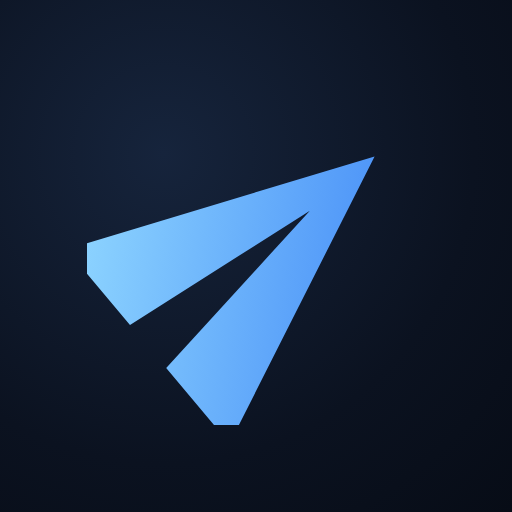
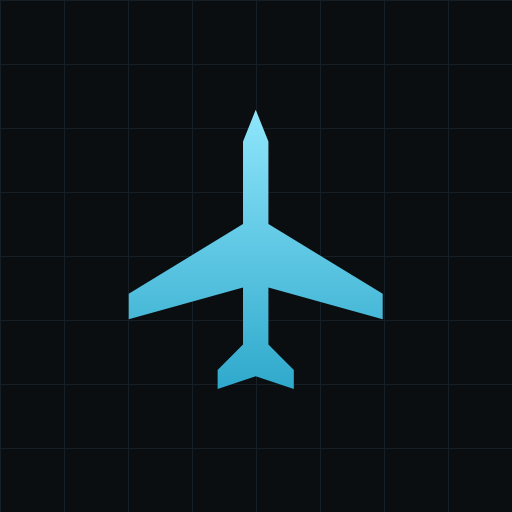
Rediseñar la interfaz con estética de instrumento de cabina
La paleta anterior era azul marino muy oscuro (#0b1220, #111c2e). No había
morado literal, pero en pantalla OLED ese azul profundo tira a violeta.
Se reemplaza por grafito neutro (#0a0e11) sin tinte de color, con cian
para lo interactivo y verde solo para la distancia.

Se quita todo el redondeado: tarjetas, botones, popups y controles de
Leaflet quedan con border-radius 0. El marcador de posición propia pasa de
círculo a rombo — el símbolo de "propia nave" de las pantallas tácticas.

Íconos con tema de aviación: se reemplaza el avión de papel (que leía más
como ícono de "enviar") por una silueta de avión en vista superior, la
misma en el encabezado, en los marcadores del mapa (rotada según el rumbo
real) y en los PNG de la app, para tener una sola identidad visual. El
fondo del ícono pasa de degradado radial (que se veía circular) a grafito
plano con rejilla cuadrada tipo pantalla de navegación.

La lista ahora se lee como un readout de instrumento: tipografía monoespaciada
con cifras tabulares (los números no bailan al actualizarse), etiquetas
ALT/VEL/RUMBO en versalitas, y un filo cian a la izquierda de cada tarjeta.
También se estilizan los popups y controles de Leaflet, que venían claros y
redondeados por defecto.

Se sube la versión de caché del service worker para purgar la anterior.
Las 37 pruebas (18 de lógica + 19 end-to-end) siguen pasando.

Claude-Session: https://claude.ai/code/session_01NAnjnxPRujyqcFmnx795uv

diff --git a/index.html b/index.html
@@ -5,38 +5,130 @@
 <meta name="viewport" content="width=device-width, initial-scale=1.0, maximum-scale=1.0, user-scalable=no">
 <title>Vuelos Cercanos</title>
 <link rel="manifest" href="manifest.json">
-<meta name="theme-color" content="#0b1220">
-<meta name="description" content="Rastreador de vuelos cercanos usando geolocalización y datos en vivo de OpenSky Network.">
+<meta name="theme-color" content="#0a0e11">
+<meta name="description" content="Rastreador de vuelos cercanos usando geolocalización y datos ADS-B en vivo.">
 <link rel="apple-touch-icon" href="icon-192.png">
 <link rel="icon" href="icon-192.png">
 <link rel="stylesheet" href="https://cdnjs.cloudflare.com/ajax/libs/leaflet/1.9.4/leaflet.min.css"/>
 <style>
+  /* Paleta de instrumento de cabina: grafito neutro (sin tinte azul-violeta),
+     cian para lo interactivo, verde solo para la distancia. Todo angular:
+     sin esquinas redondeadas en ningún elemento. */
+  :root {
+    --bg:#0a0e11; --panel:#10161a; --panel-hi:#131b21; --line:#232d34;
+    --text:#e6ecf0; --muted:#8496a0; --dim:#5d6e78;
+    --accent:#35c5e8; --ok:#64d98a;
+    --mono: ui-monospace, SFMono-Regular, Menlo, Consolas, monospace;
+  }
   * { box-sizing: border-box; margin: 0; padding: 0; }
-  body { font-family: -apple-system, system-ui, sans-serif; background:#0b1220; color:#e6edf3; }
-  #map { height: 45vh; width: 100%; }
-  header { padding: 12px 16px; background:#101a2b; display:flex; justify-content:space-between; align-items:center; border-bottom:1px solid #1e2a3f;}
-  header h1 { font-size: 16px; font-weight:600; }
-  #status { font-size: 12px; color:#8ea3bd; }
-  #refreshBtn { background:#1e3a5f; color:#e6edf3; border:none; padding:8px 12px; border-radius:8px; font-size:13px; }
-  #locationHelp { display:none; padding: 16px; text-align:center; }
-  #locationHelp p { color:#8ea3bd; font-size:13.5px; margin-bottom:12px; line-height:1.5; }
-  #retryLocationBtn { background:#1e3a5f; color:#e6edf3; border:none; padding:10px 18px; border-radius:8px; font-size:14px; }
-  #list { padding: 8px 12px 80px; overflow-y:auto; }
-  .flight-card { background:#111c2e; border:1px solid #1e2a3f; border-radius:10px; padding:12px; margin-bottom:8px; }
-  .flight-card .top { display:flex; justify-content:space-between; align-items:baseline; }
-  .flight-card .callsign { font-weight:700; font-size:15px; }
-  .flight-card .dist { color:#6fd38a; font-weight:600; font-size:14px; }
-  .flight-card .details { color:#8ea3bd; font-size:12.5px; margin-top:4px; display:flex; gap:12px; flex-wrap:wrap;}
-  .empty { text-align:center; color:#6b7f99; padding: 24px; font-size:14px; }
-  .empty .diag { display:block; margin-top:10px; color:#55697f; font-size:11.5px; line-height:1.6; }
-  .plane-icon { font-size: 18px; }
+  body {
+    font-family: -apple-system, system-ui, "Segoe UI", sans-serif;
+    background: var(--bg); color: var(--text);
+    -webkit-font-smoothing: antialiased;
+  }
+
+  header {
+    display:flex; justify-content:space-between; align-items:center; gap:12px;
+    padding: 13px 16px; background: var(--panel); border-bottom: 1px solid var(--line);
+  }
+  .brand { display:flex; align-items:center; gap:10px; min-width:0; }
+  .brand > svg { width:20px; height:20px; flex:none; color: var(--accent); }
+  h1 { font-size: 12.5px; font-weight:700; letter-spacing:.16em; text-transform:uppercase; }
+  #status {
+    font-family: var(--mono); font-size: 11px; color: var(--muted);
+    margin-top:4px; font-variant-numeric: tabular-nums;
+  }
+  #refreshBtn {
+    font-family: var(--mono); font-size:10.5px; letter-spacing:.12em; text-transform:uppercase;
+    background: transparent; color: var(--accent); border: 1px solid var(--accent);
+    border-radius: 0; padding: 9px 13px; flex:none; cursor:pointer;
+  }
+  #refreshBtn:active { background: var(--accent); color: var(--bg); }
+
+  #map { height: 42vh; width: 100%; background: var(--bg); border-bottom: 1px solid var(--line); }
+
+  #list { padding: 10px 12px 80px; }
+  .flight-card {
+    background: var(--panel); border: 1px solid var(--line); border-left: 3px solid var(--accent);
+    border-radius: 0; padding: 10px 12px; margin-bottom: 6px;
+  }
+  .flight-card .top { display:flex; justify-content:space-between; align-items:baseline; gap:10px; }
+  .flight-card .callsign {
+    font-family: var(--mono); font-weight:700; font-size:14px; letter-spacing:.05em;
+    overflow:hidden; text-overflow:ellipsis; white-space:nowrap;
+  }
+  .flight-card .callsign .mark { color: var(--accent); margin-right:7px; }
+  .flight-card .dist {
+    font-family: var(--mono); color: var(--ok); font-weight:600; font-size:13px;
+    font-variant-numeric: tabular-nums; flex:none;
+  }
+  .flight-card .details { display:flex; gap:16px; flex-wrap:wrap; margin-top:8px; }
+  .flight-card .k {
+    font-size:9px; letter-spacing:.14em; text-transform:uppercase; color: var(--dim); margin-right:6px;
+  }
+  .flight-card .v {
+    font-family: var(--mono); font-size:12px; color: var(--muted); font-variant-numeric: tabular-nums;
+  }
+
+  .empty { text-align:center; color: var(--dim); padding: 28px 16px; font-size:13px; line-height:1.6; }
+  .empty .diag {
+    display:block; margin-top:12px; padding-top:12px; border-top:1px solid var(--line);
+    font-family: var(--mono); color:#4d5c66; font-size:11px; line-height:1.7;
+  }
+
+  #locationHelp { display:none; padding: 28px 20px; text-align:center; }
+  #locationHelp p { color: var(--muted); font-size:13px; margin-bottom:16px; line-height:1.6; }
+  #retryLocationBtn {
+    font-family: var(--mono); font-size:11px; letter-spacing:.12em; text-transform:uppercase;
+    background: transparent; color: var(--accent); border:1px solid var(--accent);
+    border-radius:0; padding: 11px 20px; cursor:pointer;
+  }
+  #retryLocationBtn:active { background: var(--accent); color: var(--bg); }
+
+  /* Marcadores del mapa: mismo símbolo de avión que el encabezado y el ícono
+     de la app, rotado según el rumbo real de la aeronave. */
+  .plane-icon { color: var(--accent); line-height:0; }
+  .plane-icon svg {
+    width:22px; height:22px; display:block;
+    filter: drop-shadow(0 0 2px rgba(0,0,0,.95));
+  }
+  /* Posición propia: rombo, no círculo — símbolo de "propia nave" de las
+     pantallas tácticas, y encaja con el resto angular de la interfaz. */
+  .me-marker {
+    width:10px; height:10px; margin:2px;
+    border:2px solid var(--accent); background: rgba(53,197,232,.28);
+    transform: rotate(45deg);
+  }
+
+  /* Leaflet viene con fondos claros y esquinas redondeadas por defecto. */
+  .leaflet-container { background: var(--bg); font-family: inherit; }
+  .leaflet-popup-content-wrapper, .leaflet-popup-tip {
+    background: var(--panel-hi); color: var(--text);
+    border:1px solid var(--line); border-radius:0; box-shadow:none;
+  }
+  .leaflet-popup-content { font-family: var(--mono); font-size:12px; margin:9px 11px; line-height:1.5; }
+  .leaflet-popup-content b { color: var(--accent); letter-spacing:.05em; }
+  .leaflet-container a.leaflet-popup-close-button { color: var(--dim); }
+  .leaflet-control-zoom a {
+    background: var(--panel) !important; color: var(--text) !important;
+    border-color: var(--line) !important; border-radius:0 !important;
+  }
+  .leaflet-control-attribution {
+    background: rgba(10,14,17,.85) !important; color: var(--dim) !important; font-size:9px;
+  }
+  .leaflet-control-attribution a { color: var(--muted) !important; }
 </style>
 </head>
 <body>
 <header>
-  <div>
-    <h1>✈ Vuelos Cercanos</h1>
-    <div id="status">Obteniendo ubicación...</div>
+  <div class="brand">
+    <svg viewBox="0 0 100 100" fill="currentColor" aria-hidden="true">
+      <path d="M50 4 L54 14 L54 40 L90 62 L90 70 L54 60 L54 78 L62 86 L62 92 L50 88 L38 92 L38 86 L46 78 L46 60 L10 70 L10 62 L46 40 L46 14 Z"/>
+    </svg>
+    <div>
+      <h1>Vuelos Cercanos</h1>
+      <div id="status">Obteniendo ubicación...</div>
+    </div>
   </div>
   <button id="refreshBtn">Actualizar</button>
 </header>
@@ -49,11 +141,13 @@
 
 <script src="https://cdnjs.cloudflare.com/ajax/libs/leaflet/1.9.4/leaflet.min.js"></script>
 <script type="module">
-import { fetchNearbyFlights, renderFlightList, escapeHtml, fmtAltitude } from "./app-logic.js";
+import { fetchNearbyFlights, renderFlightList, escapeHtml, fmtAltitude, PLANE_PATH } from "./app-logic.js";
 
 // Leaflet se carga desde un CDN. Si la red lo bloquea o el CDN falla, la app
 // sigue sirviendo con la lista de vuelos en vez de romperse entera.
 const hasLeaflet = typeof L !== "undefined";
+
+const PLANE_SVG = `<svg viewBox="0 0 100 100" fill="currentColor"><path d="${PLANE_PATH}"/></svg>`;
 
 let map = null, planeMarkers = [];
 let userLat = null, userLon = null;
@@ -72,7 +166,8 @@ function initMap(lat, lon) {
   L.tileLayer("https://{s}.tile.openstreetmap.org/{z}/{x}/{y}.png", {
     attribution: "© OpenStreetMap contributors"
   }).addTo(map);
-  L.circleMarker([lat, lon], { radius: 7, color: "#3b82f6", fillColor: "#3b82f6", fillOpacity: 0.8 }).addTo(map);
+  const meIcon = L.divIcon({ html: '<div class="me-marker"></div>', className: "", iconSize: [14, 14] });
+  L.marker([lat, lon], { icon: meIcon, interactive: false, zIndexOffset: -100 }).addTo(map);
 }
 
 function renderMarkers(flights) {
@@ -83,8 +178,8 @@ function renderMarkers(flights) {
     // f.track ya fue normalizado a número en app-logic.js (parseAircraft),
     // así que es seguro interpolarlo en el atributo style.
     const icon = L.divIcon({
-      html: `<div class="plane-icon" style="transform: rotate(${f.track}deg)">✈</div>`,
-      className: "", iconSize: [24, 24]
+      html: `<div class="plane-icon" style="transform: rotate(${f.track}deg)">${PLANE_SVG}</div>`,
+      className: "", iconSize: [22, 22]
     });
     const marker = L.marker([f.lat, f.lon], { icon }).addTo(map)
       .bindPopup(`<b>${escapeHtml(f.callsign)}</b><br>${f.dist.toFixed(1)} km · ${fmtAltitude(f)}`);

diff --git a/app-logic.js b/app-logic.js
@@ -26,6 +26,12 @@ export const PROVIDERS = [
 export const DEFAULT_RADIUS_NM = 100; // ~185 km
 const FETCH_TIMEOUT_MS = 12000;
 
+// Silueta de avión en vista superior, con el morro hacia arriba (viewBox
+// 0 0 100 100). Es el mismo símbolo en el encabezado, en los marcadores del
+// mapa (rotado según el rumbo) y en los íconos de la app, para que la
+// identidad visual sea una sola.
+export const PLANE_PATH = "M50 4 L54 14 L54 40 L90 62 L90 70 L54 60 L54 78 L62 86 L62 92 L50 88 L38 92 L38 86 L46 78 L46 60 L10 70 L10 62 L46 40 L46 14 Z";
+
 const FEET_TO_M = 0.3048;
 const KNOTS_TO_KMH = 1.852;
 
@@ -150,13 +156,13 @@ export function renderFlightList(container, flights, maxItems = 30) {
   container.innerHTML = flights.slice(0, maxItems).map((f) => `
     <div class="flight-card">
       <div class="top">
-        <span class="callsign">✈ ${escapeHtml(f.callsign)}</span>
+        <span class="callsign"><span class="mark">✈</span>${escapeHtml(f.callsign)}</span>
         <span class="dist">${f.dist.toFixed(1)} km</span>
       </div>
       <div class="details">
-        <span>Alt: ${fmtAltitude(f)}</span>
-        <span>Vel: ${fmtSpeed(f)}</span>
-        <span>Dirección: ${bearingLabel(f.brg)}</span>
+        <span><span class="k">Alt</span><span class="v">${fmtAltitude(f)}</span></span>
+        <span><span class="k">Vel</span><span class="v">${fmtSpeed(f)}</span></span>
+        <span><span class="k">Rumbo</span><span class="v">${bearingLabel(f.brg)}</span></span>
       </div>
     </div>
   `).join("");

diff --git a/service-worker.js b/service-worker.js
@@ -1,4 +1,4 @@
-const CACHE_NAME = "vuelos-cercanos-cache-v2";
+const CACHE_NAME = "vuelos-cercanos-cache-v3";
 const ASSETS = [
   "./", "./index.html", "./app-logic.js",
   "./manifest.json", "./icon-192.png", "./icon-512.png",
